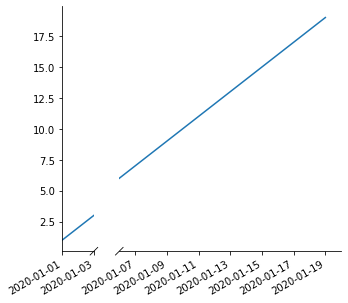
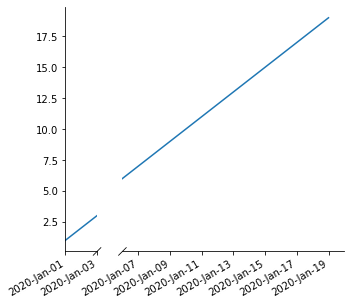
Add reformatting of datetime on x-axis in example, together with updated figure. (#72)
Also remove empty line between
```python
fig.autofmt_xdate()```
and
```python
[x.remove() for x in bax.diag_handles]
bax.draw_diags()```
to show that they are related.

diff --git a/README.md b/README.md
@@ -92,7 +92,6 @@ from brokenaxes import brokenaxes
 import numpy as np
 import datetime
 
-
 fig = plt.figure(figsize=(5, 5))
 xx = [datetime.datetime(2020, 1, x) for x in range(1, 20)]
 
@@ -112,10 +111,14 @@ bax = brokenaxes(
 )
 
 bax.plot(xx, yy)
-fig.autofmt_xdate()
 
+fig.autofmt_xdate()
 [x.remove() for x in bax.diag_handles]
 bax.draw_diags()
+
+import matplotlib.dates as mdates
+for ax in bax.axs:
+    ax.xaxis.set_major_formatter(mdates.DateFormatter('%Y-%b-%d'))
 ```
 
 ![datetime_example](https://raw.githubusercontent.com/bendichter/brokenaxes/master/datetime_example.png)
